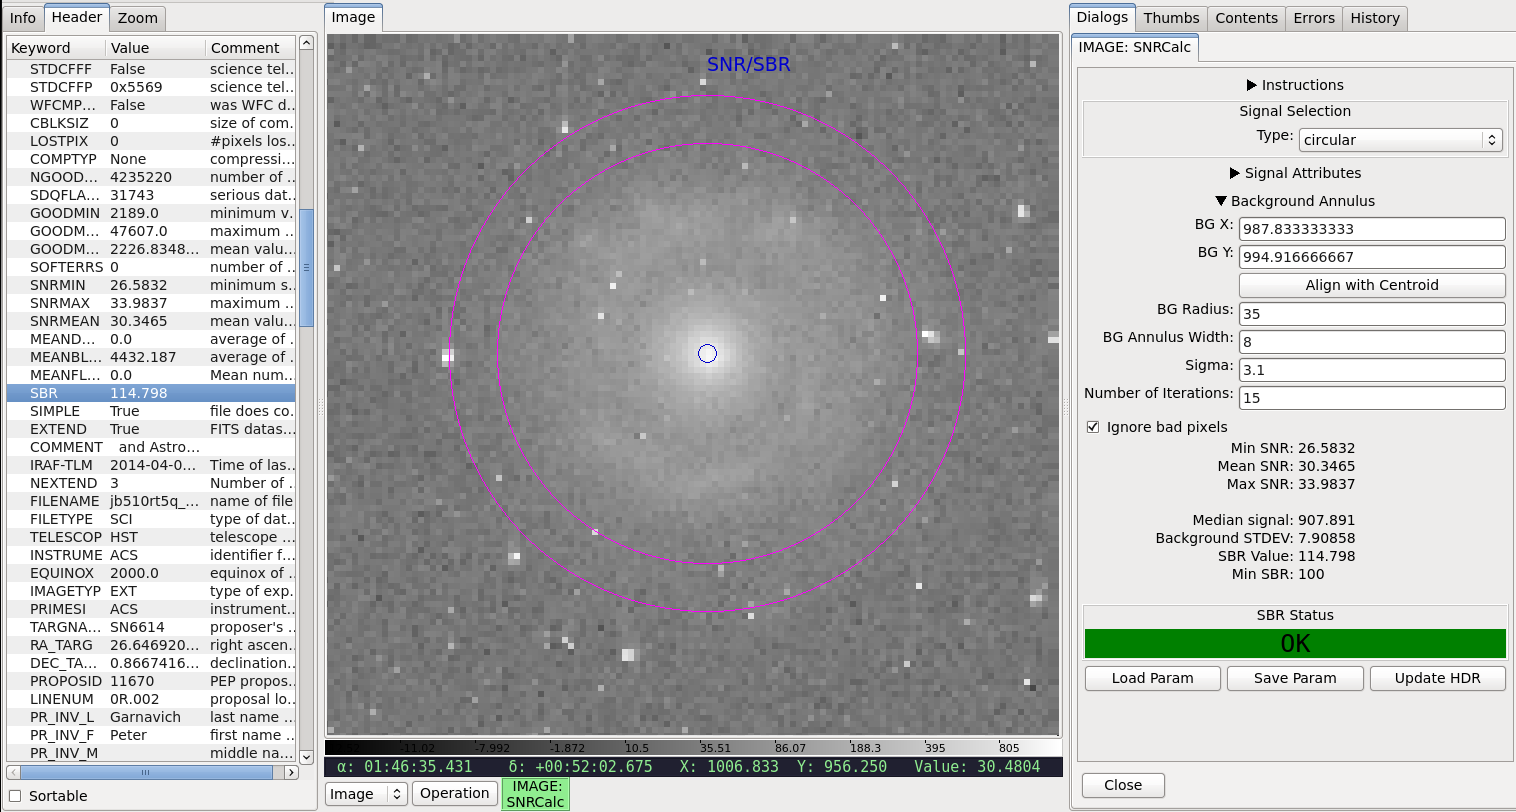
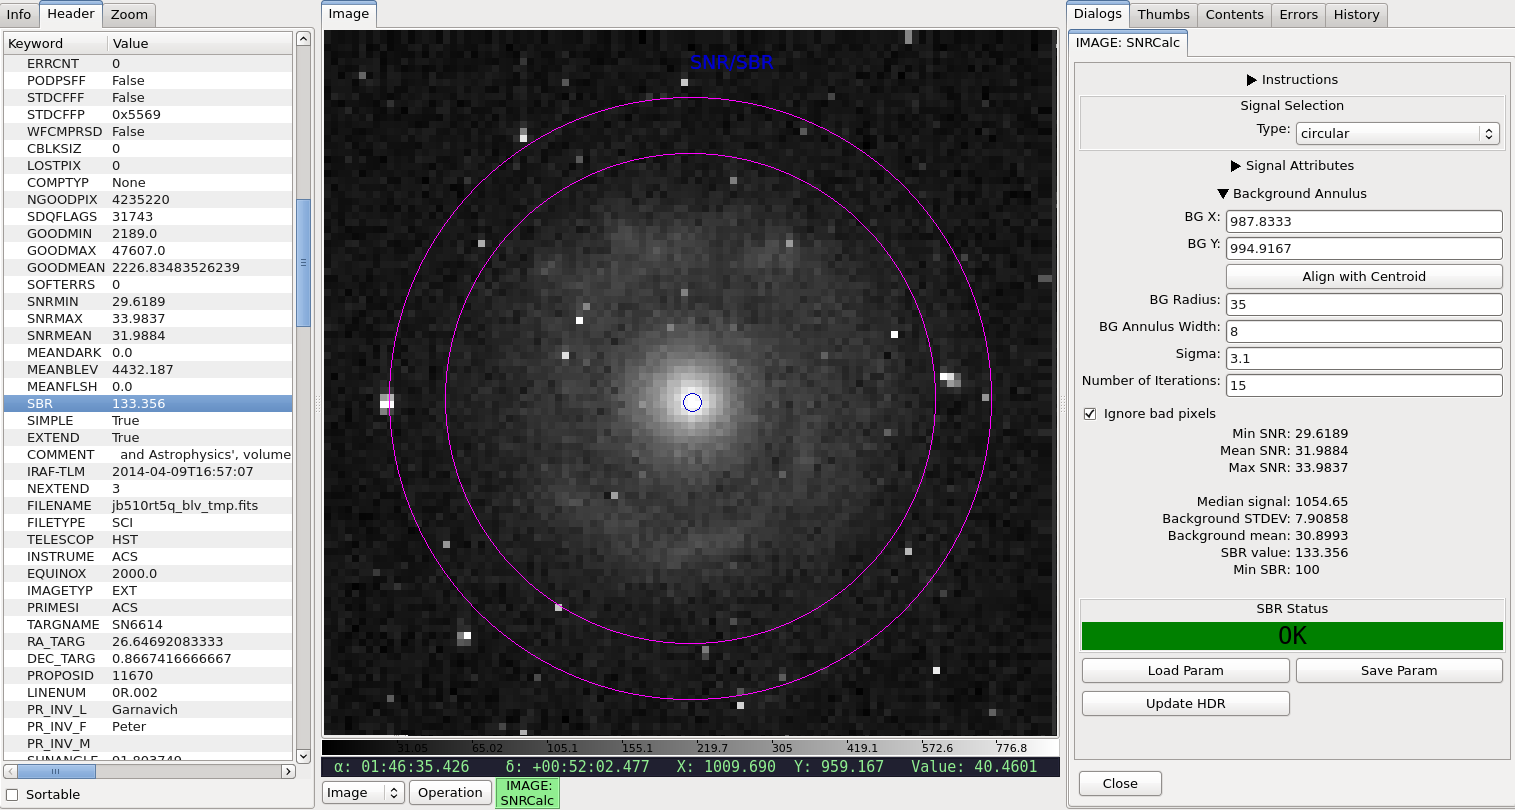
Added background mean info to SNRCalc

diff --git a/stginga/plugins/SNRCalc.py b/stginga/plugins/SNRCalc.py
@@ -167,7 +167,8 @@ class SNRCalc(LocalPlugin, MEFMixin, ParamMixin):
             ('Spacer3', 'spacer'),
             ('Median signal:', 'label', 'sig med', 'llabel'),
             ('Background STDEV:', 'label', 'bg std', 'llabel'),
-            ('SBR Value:', 'label', 'SBR Value', 'llabel'),
+            ('Background mean:', 'label', 'bg mean', 'llabel'),
+            ('SBR value:', 'label', 'SBR Value', 'llabel'),
             ('Min SBR:', 'label', 'Min SBR', 'llabel'),
             ('Spacer4', 'spacer'))
         w, b = Widgets.build_info(captions, orientation=self.orientation)
@@ -184,6 +185,7 @@ class SNRCalc(LocalPlugin, MEFMixin, ParamMixin):
                 (b.max_snr, 'Max SNR in inner circle'),
                 (b.sig_med, 'Median signal in inner circle'),
                 (b.bg_std, 'Background std. dev. in annulus'),
+                (b.bg_mean, 'Background mean in annulus'),
                 (b.sbr_value, 'SBR value'),
                 (b.min_sbr,
                  'Calculated SBR below this value raises red flag')):
@@ -327,13 +329,17 @@ class SNRCalc(LocalPlugin, MEFMixin, ParamMixin):
         sig_med = np.median(sci_data)
         bg_std = utils.calc_stat(bg_data, sigma=self.sigma, niter=self.niter,
                                  algorithm='stddev')
+        bg_mean = utils.calc_stat(bg_data, sigma=self.sigma, niter=self.niter,
+                                  algorithm='mean')
         self.w.sig_med.set_text(str(sig_med))
         self.w.bg_std.set_text(str(bg_std))
+        self.w.bg_mean.set_text(str(bg_mean))
         self._debug_str += (
             ', bg_x={0}, bg_y={1}, bg_r={2}, dannulus={3}, '
-            'sigma={4}, niter={5}, sig_med={6}, bg_std={7}'.format(
+            'sigma={4}, niter={5}, sig_med={6}, bg_std={7}, '
+            'bg_mean={8}'.format(
                 bg_obj.x, bg_obj.y, bg_obj.radius, bg_obj.width,
-                self.sigma, self.niter, sig_med, bg_std))
+                self.sigma, self.niter, sig_med, bg_std, bg_mean))
 
         if bg_std != 0:
             sbrval = sig_med / bg_std
@@ -400,6 +406,7 @@ class SNRCalc(LocalPlugin, MEFMixin, ParamMixin):
         self.w.max_snr.set_text(dummy_text)
         self.w.sig_med.set_text(dummy_text)
         self.w.bg_std.set_text(dummy_text)
+        self.w.bg_mean.set_text(dummy_text)
         self.w.sbr_value.set_text(dummy_text)
         self.w.min_sbr.set_text(dummy_text)
 
@@ -954,6 +961,7 @@ class SNRCalc(LocalPlugin, MEFMixin, ParamMixin):
 
         pardict['sig_med'] = float(self.w.sig_med.get_text())
         pardict['bg_std'] = float(self.w.bg_std.get_text())
+        pardict['bg_mean'] = float(self.w.bg_mean.get_text())
         pardict['sbr_value'] = float(self.w.sbr_value.get_text())
         pardict['min_sbr'] = float(self.w.min_sbr.get_text())
         pardict['sbr_status_label'] = self.sbr_status_label.get_text()

diff --git a/docs/stginga/plugins_manual/snrcalc.rst b/docs/stginga/plugins_manual/snrcalc.rst
@@ -36,10 +36,11 @@ array (e.g., the ``ERR`` extension), its SNR can also be calculated:
 
     \overline{\mathrm{SNR}} = \mathrm{MEAN}(a)
 
-While SNR is more popular, SBR is useful for images without existing or reliable
-errors. User can also define a minimum limit for SBR check, so that the GUI can
-provide a quick visual indication on whether the image achieves the desired SBR
-or not.
+While SNR is more popular, SBR is useful for images without existing or
+reliable errors. User can also define a minimum limit for SBR check, so that
+the GUI can provide a quick visual indication on whether the image achieves the
+desired SBR or not. As part of the statistics, mean background value is also
+provided albeit not used in SBR nor SNR calculations.
 
 User can save the calculated values in the image header using the "Update HDR"
 button. Calculation parameters can be saved to a JSON file, which then can be
